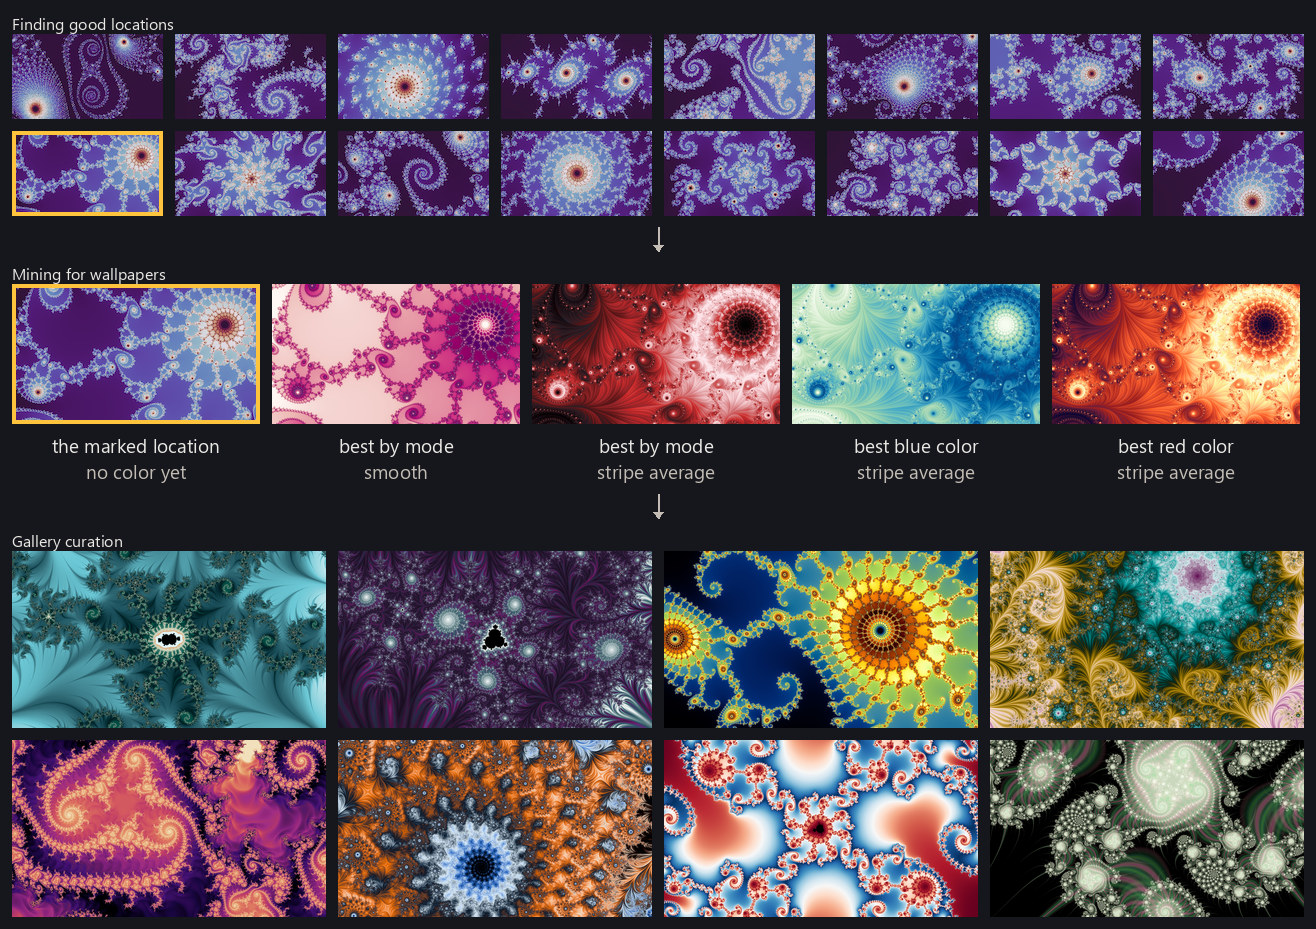
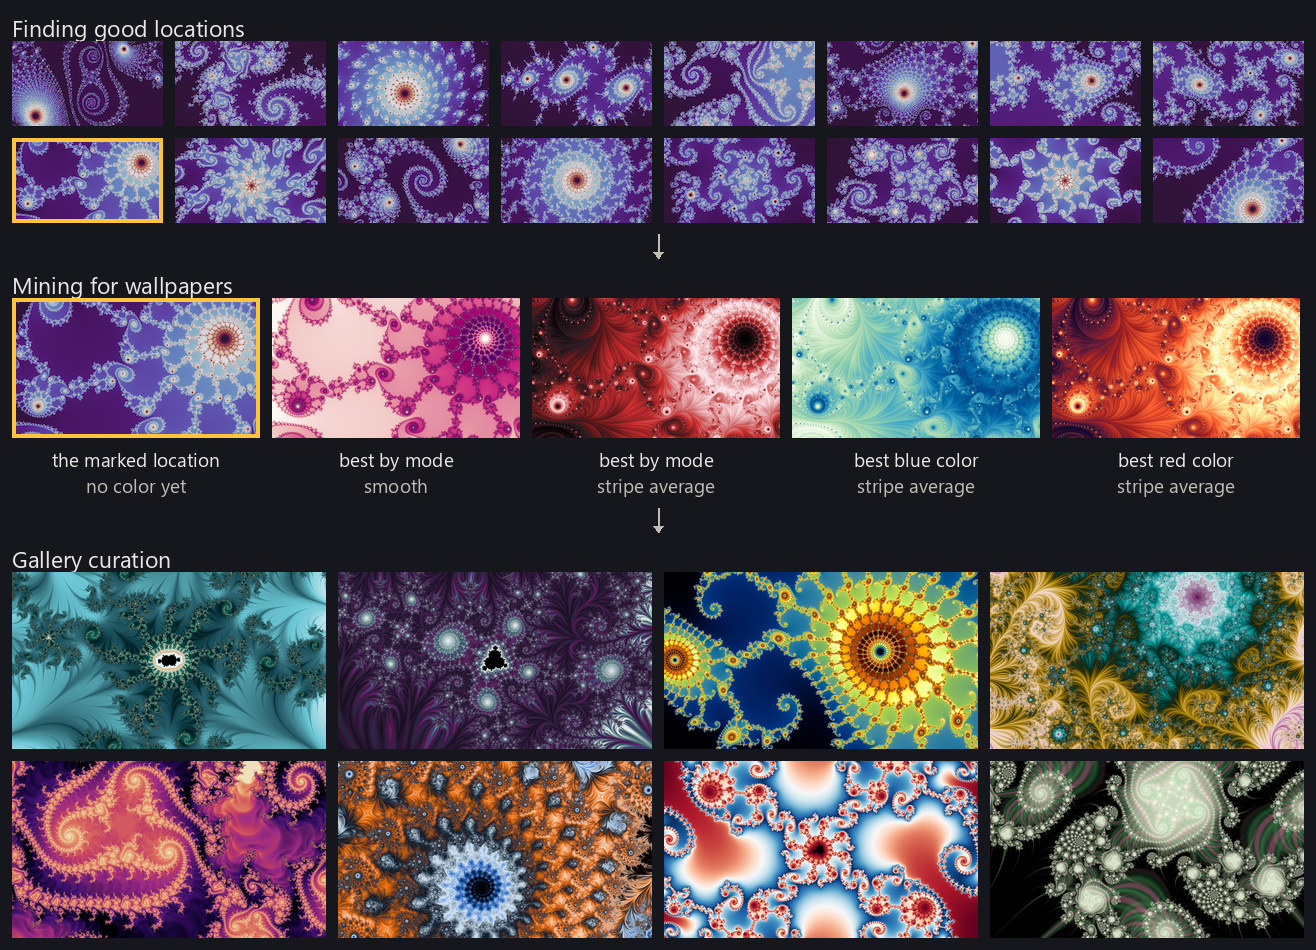
A band title outranks the label under a tile, on this figure at least
The three band titles were set at BAND_SIZE 16 and the labels under the middle
band's tiles come out of sheets.label_size at 19, which has the two ranks the
wrong way round: a title says what the whole block under it is, a label names one
picture inside that block. The titles are now 23 — the label rule's own answer
plus a step, derived rather than typed so the two cannot drift apart.

Local to `wallpapers-three-bands`. `heading` takes a size and still defaults to
BAND_SIZE, so the other headed sheets of this page are untouched; bringing them
into line is a pass of its own rather than something to do while redrawing one
figure.

Claude-Session: https://claude.ai/code/session_01U5vQXodwVmtH3qrE17B3hy

diff --git a/article/finding-good-wallpapers.html b/article/finding-good-wallpapers.html
@@ -66,7 +66,7 @@
     project's rendering time goes.</p>
 
       <figure class="figure" data-figure="wallpapers-three-bands">
-        <a class="figure-open" href="../explorer/index.html?v=2&amp;x=-0.7493892550988116&amp;y=0.04149385841183289&amp;w=0.0000042814940366928615&amp;p=twilight_shifted" title="open in fractal explorer" aria-label="open in fractal explorer"><img src="../assets/images/figures/wallpapers-three-bands.jpg" width="1316" height="929" alt="Three titled bands of pictures stacked top to bottom with an arrow between each pair. Finding good locations is sixteen small fractal locations in one neutral color map, one of them framed in yellow; Mining for wallpapers is five larger tiles of that framed location, the first neutral and framed to match, then two labeled best by mode and two labeled best blue color and best red color; Gallery curation is eight finished wallpapers from the galleries."><span class="figure-open-mark" aria-hidden="true">↗</span></a>
+        <a class="figure-open" href="../explorer/index.html?v=2&amp;x=-0.7493892550988116&amp;y=0.04149385841183289&amp;w=0.0000042814940366928615&amp;p=twilight_shifted" title="open in fractal explorer" aria-label="open in fractal explorer"><img src="../assets/images/figures/wallpapers-three-bands.jpg" width="1316" height="950" alt="Three titled bands of pictures stacked top to bottom with an arrow between each pair. Finding good locations is sixteen small fractal locations in one neutral color map, one of them framed in yellow; Mining for wallpapers is five larger tiles of that framed location, the first neutral and framed to match, then two labeled best by mode and two labeled best blue color and best red color; Gallery curation is eight finished wallpapers from the galleries."><span class="figure-open-mark" aria-hidden="true">↗</span></a>
         <figcaption>The three parts, and what each hands to the next. The top band is sixteen places the search admitted, all drawn in one neutral map because nothing about their color is settled yet. The middle band takes the marked one: two of its best results in different rendering modes, and two in different colors. The bottom band is eight seats from the galleries, selected out of every picture every mine has made.</figcaption>
       </figure>
 

diff --git a/builder/pool.py b/builder/pool.py
@@ -199,11 +199,17 @@ def frame_line(row: dict, lead: str) -> str:
     )
 
 
-def heading(draw, x: int, y: int, text: str) -> None:
-    """The line that says what the block of panels under it is."""
+def heading(draw, x: int, y: int, text: str, *, size: int = BAND_SIZE) -> None:
+    """The line that says what the block of panels under it is.
+
+    `size` is here for `wallpapers-three-bands`, whose titles are set a rank **above** the
+    labels under its tiles rather than below them — see `BANDS_TITLE_STEP`. The other
+    headed sheets on this page still take `BAND_SIZE`, and bringing them into line is a
+    pass of its own rather than something to do while re-drawing one figure.
+    """
     from .theme import font
 
-    draw.text((x, y), text, fill=WELL_INK, font=font(BAND_SIZE))
+    draw.text((x, y), text, fill=WELL_INK, font=font(size))
 
 
 # ---------------------------------------------------------------------------- the panels
@@ -954,9 +960,18 @@ BANDS_LABEL_LINES = 2
 #: The room between two bands, with the hand-off arrow drawn down the middle of it.
 BANDS_HAND_OFF = 46
 
-#: The room a band's own title takes above it — `BAND_SIZE` and the air under it, the
-#: same offset every other headed block on this page uses.
-BANDS_TITLE_HEIGHT = 22
+#: How much bigger a band's title is than the label under a tile of that band, and the
+#: air between the title and the pictures it names.
+#:
+#: **A title outranks a label** *(Matt, 2026-09-05)*: it says what the whole block under
+#: it is, where a label names one picture inside that block, so setting it smaller had the
+#: two ranks the wrong way round — `BAND_SIZE` is 16 and `sheets.label_size` returns 19 at
+#: this band's tile height. The step is taken from the label rule rather than typed as a
+#: size, so the two cannot drift apart the way two constants would. The other headed
+#: sheets on this page are still on `BAND_SIZE` and bringing them into line is a pass of
+#: its own.
+BANDS_TITLE_STEP = 4
+BANDS_TITLE_AIR = 6
 
 #: What each band is called, in the words the article already teaches. The first and the
 #: last are the names of the sections either side of this one, which is what makes the
@@ -1102,19 +1117,21 @@ def three_bands() -> Drawn:
     middle = panels(BANDS_MINED_COLUMNS)
     large = panels(BANDS_SEATED_COLUMNS)
     labels = band(middle[1], BANDS_LABEL_LINES)
+    title_size = sheets.label_size(middle[1], SHEET_WIDTH) + BANDS_TITLE_STEP
+    title_high = title_size + BANDS_TITLE_AIR
 
     # Every band is a title, then its pictures; between two bands is the hand-off, and
     # the arrow is centred in it. Laid out down a running `y` rather than from three
     # origins, because a title's height is the one number that moves when the wording does.
     rows_down = len(admitted) // BANDS_ADMITTED_COLUMNS
-    admitted_at = sheets.PAD + BANDS_TITLE_HEIGHT
+    admitted_at = sheets.PAD + title_high
     admitted_high = rows_down * small[1] + (rows_down - 1) * sheets.PAD
-    mined_at = admitted_at + admitted_high + BANDS_HAND_OFF + BANDS_TITLE_HEIGHT
-    seated_at = mined_at + middle[1] + labels + BANDS_HAND_OFF + BANDS_TITLE_HEIGHT
+    mined_at = admitted_at + admitted_high + BANDS_HAND_OFF + title_high
+    seated_at = mined_at + middle[1] + labels + BANDS_HAND_OFF + title_high
     seated_high = BANDS_SEATED_ROWS * large[1] + (BANDS_SEATED_ROWS - 1) * sheets.PAD
     sheet, draw = sheets.canvas(SHEET_WIDTH, seated_at + seated_high + sheets.PAD)
 
-    heading(draw, sheets.PAD, sheets.PAD, BANDS_TITLES[0])
+    heading(draw, sheets.PAD, sheets.PAD, BANDS_TITLES[0], size=title_size)
     for index, row in enumerate(admitted):
         column, line = index % BANDS_ADMITTED_COLUMNS, index // BANDS_ADMITTED_COLUMNS
         origin = (
@@ -1126,7 +1143,7 @@ def three_bands() -> Drawn:
             sheets.framed(draw, origin, small, BANDS_MARK)
 
     pairs = [BANDS_MODE_WORDS, BANDS_MODE_WORDS, *_bands_color_words(mined[2:])]
-    heading(draw, sheets.PAD, mined_at - BANDS_TITLE_HEIGHT, BANDS_TITLES[1])
+    heading(draw, sheets.PAD, mined_at - title_high, BANDS_TITLES[1], size=title_size)
     for index in range(BANDS_MINED_COLUMNS):
         origin = (sheets.PAD + index * (middle[0] + sheets.PAD), mined_at)
         if index == 0:
@@ -1141,7 +1158,7 @@ def three_bands() -> Drawn:
             sheets.framed(draw, origin, middle, BANDS_MARK)
         under(draw, origin, middle, words)
 
-    heading(draw, sheets.PAD, seated_at - BANDS_TITLE_HEIGHT, BANDS_TITLES[2])
+    heading(draw, sheets.PAD, seated_at - title_high, BANDS_TITLES[2], size=title_size)
     for index, pick in enumerate(seated):
         column, line = index % BANDS_SEATED_COLUMNS, index // BANDS_SEATED_COLUMNS
         origin = (
@@ -1153,7 +1170,7 @@ def three_bands() -> Drawn:
 
     centre = SHEET_WIDTH // 2
     for top in (mined_at, seated_at):
-        gap = top - BANDS_TITLE_HEIGHT - BANDS_HAND_OFF
+        gap = top - title_high - BANDS_HAND_OFF
         sheets.elbow_arrow(draw, [(centre, gap + 11), (centre, gap + BANDS_HAND_OFF - 11)])
 
     destination = sheets.save(sheet, sheet_path(BANDS_ID))
@@ -1175,9 +1192,13 @@ def _bands_provenance(admitted, marked_at, mined, seated, sizes) -> list[str]:
         f"{large[0]}x{large[1]}, {BANDS_SEATED_COLUMNS} across. The titles are "
         f"{', '.join(BANDS_TITLES)} — the sections either side of this one and this page's "
         f"own word for what it does, so a reader who has met the contents rail has met all "
-        f"three. The marked location wears the same amber frame in the first band and the "
-        f"second, and that frame is the only thing on the sheet saying the two are one "
-        f"place. Nothing on it is a count.",
+        f"three. They are set {BANDS_TITLE_STEP} points above the label under a middle-band "
+        f"tile rather than below it: a title says what the whole block under it is and a "
+        f"label names one picture inside that block, so the smaller title the other headed "
+        f"sheets of this page still carry has the two ranks the wrong way round. The marked "
+        f"location wears the same amber frame in the first band and the second, and that "
+        f"frame is the only thing on the sheet saying the two are one place. Nothing on it "
+        f"is a count.",
         f"Band 1 — the same sixteen admitted locations `locations-highly-rated` shows on "
         f"finding-good-locations.html, in the same order, each addressed by the walk "
         f"ledger and the node id it was written under and rendered fresh at "
